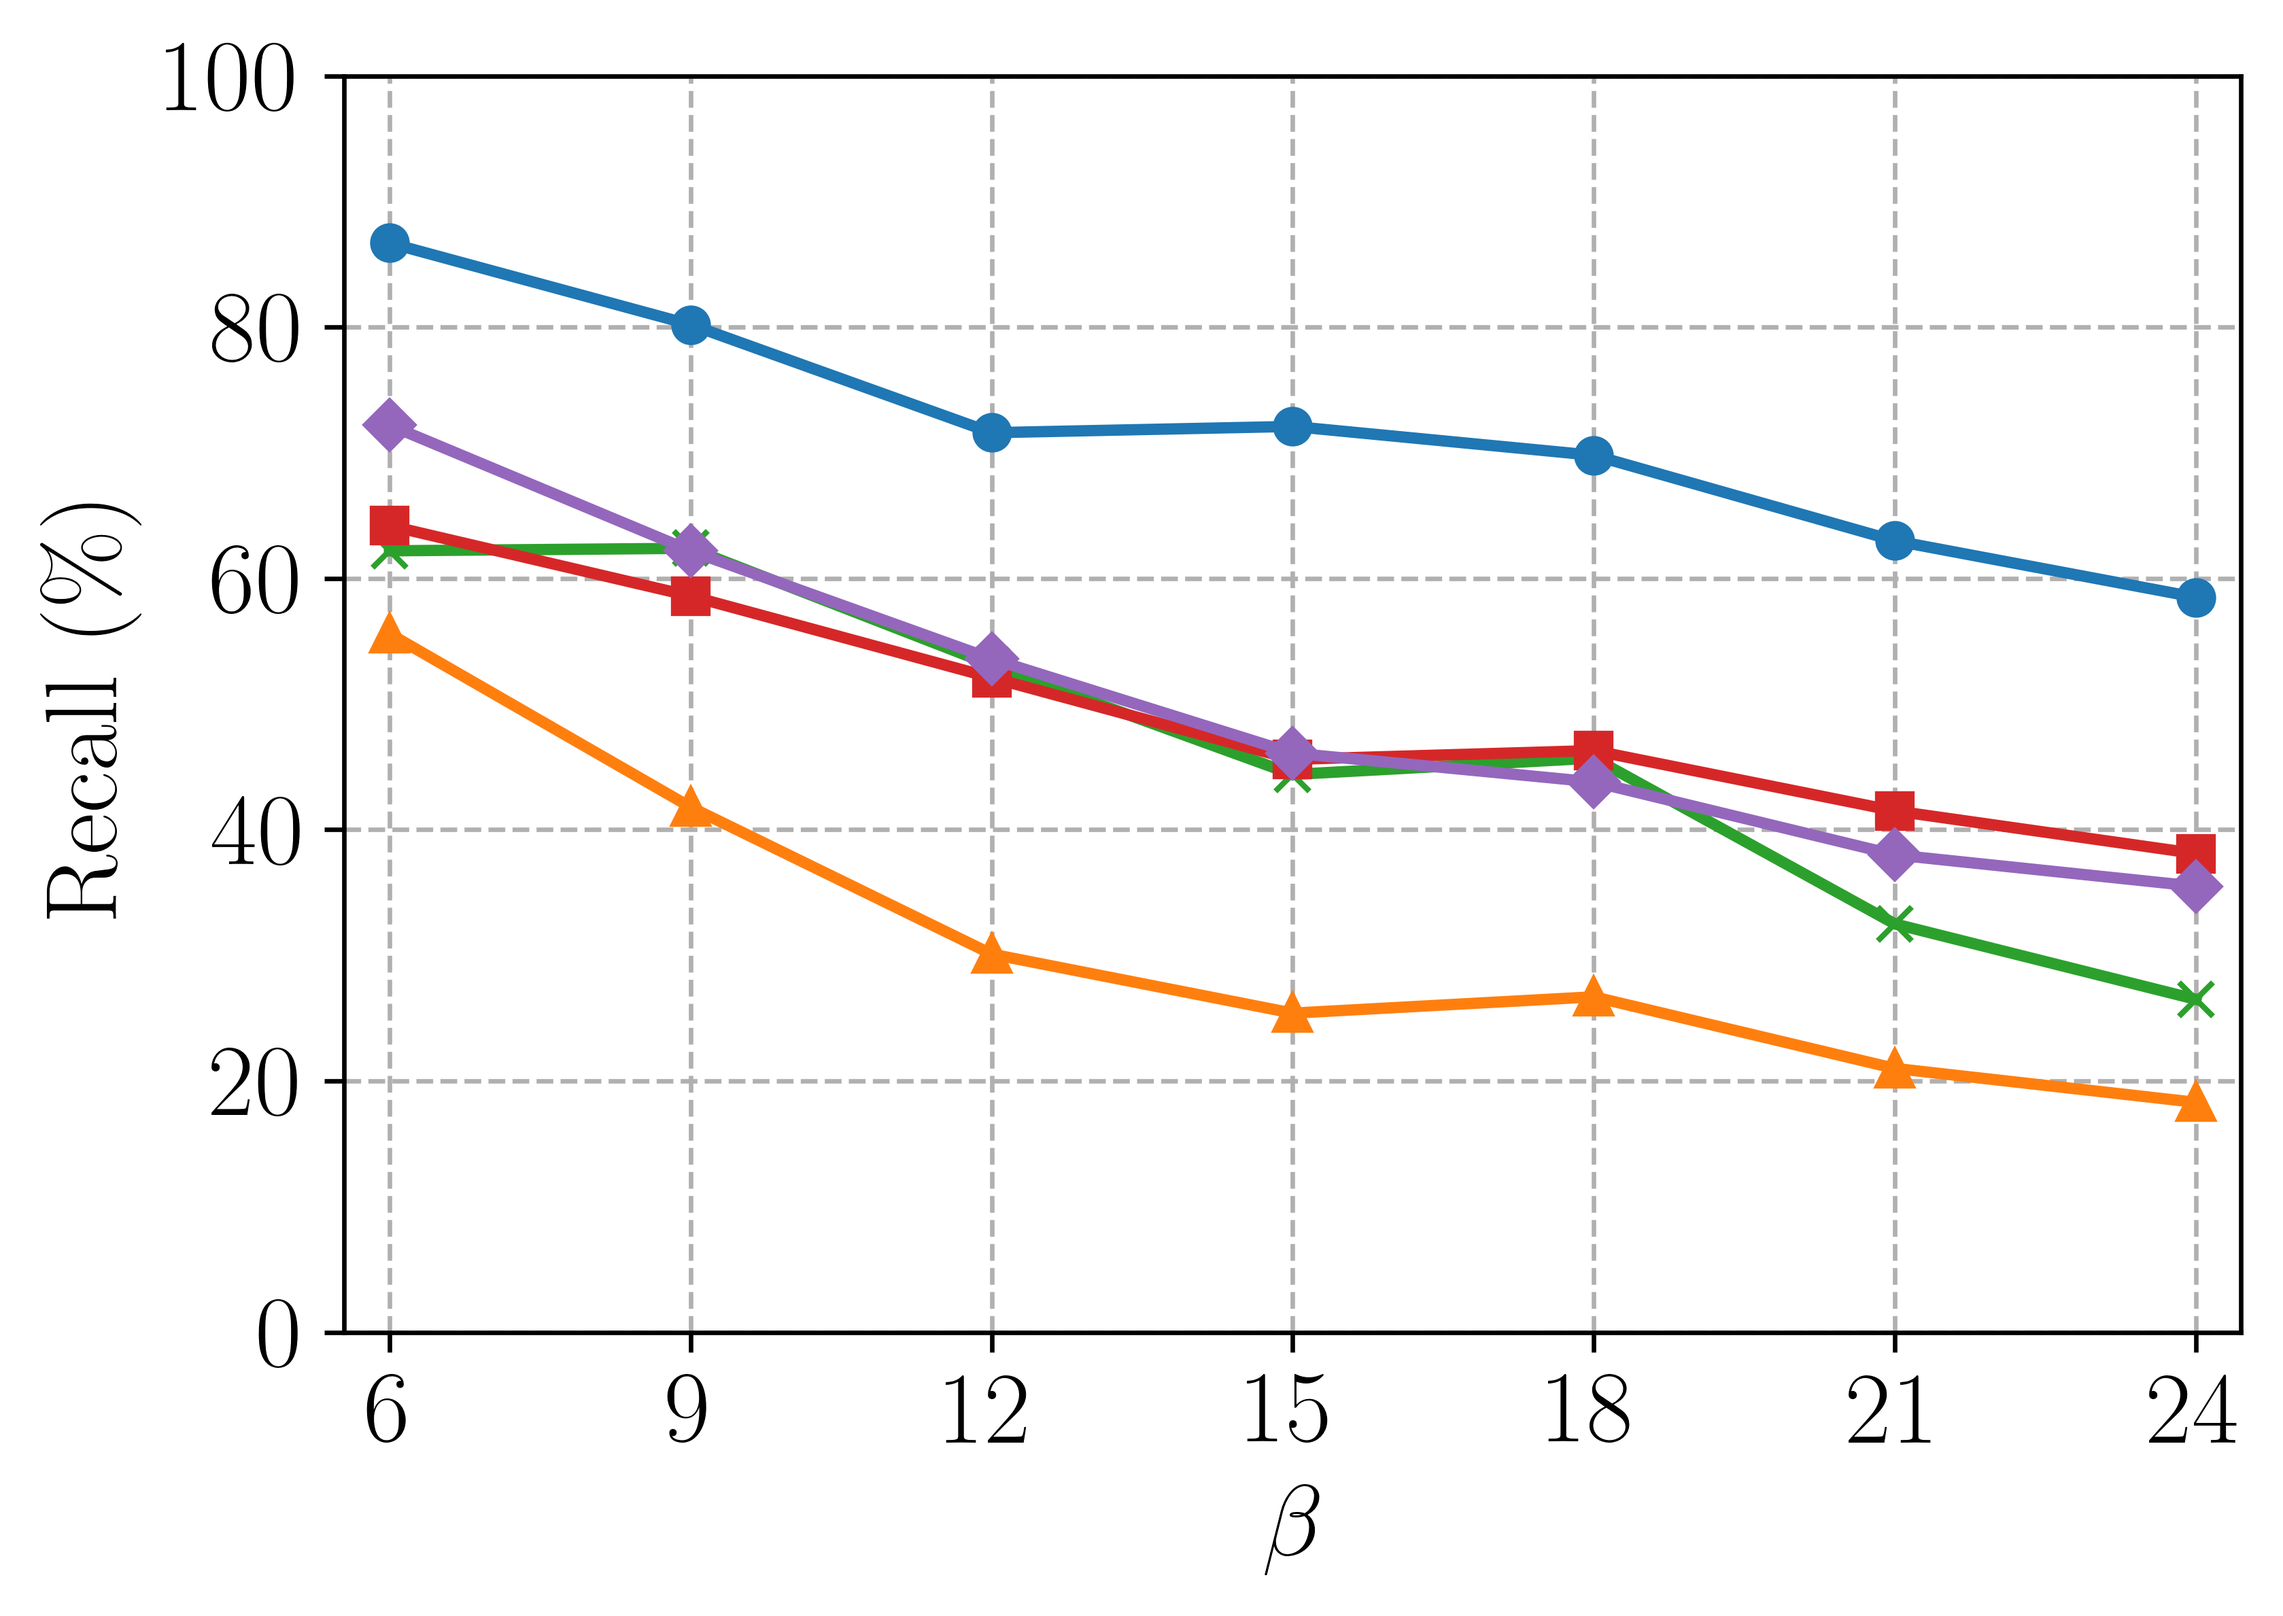
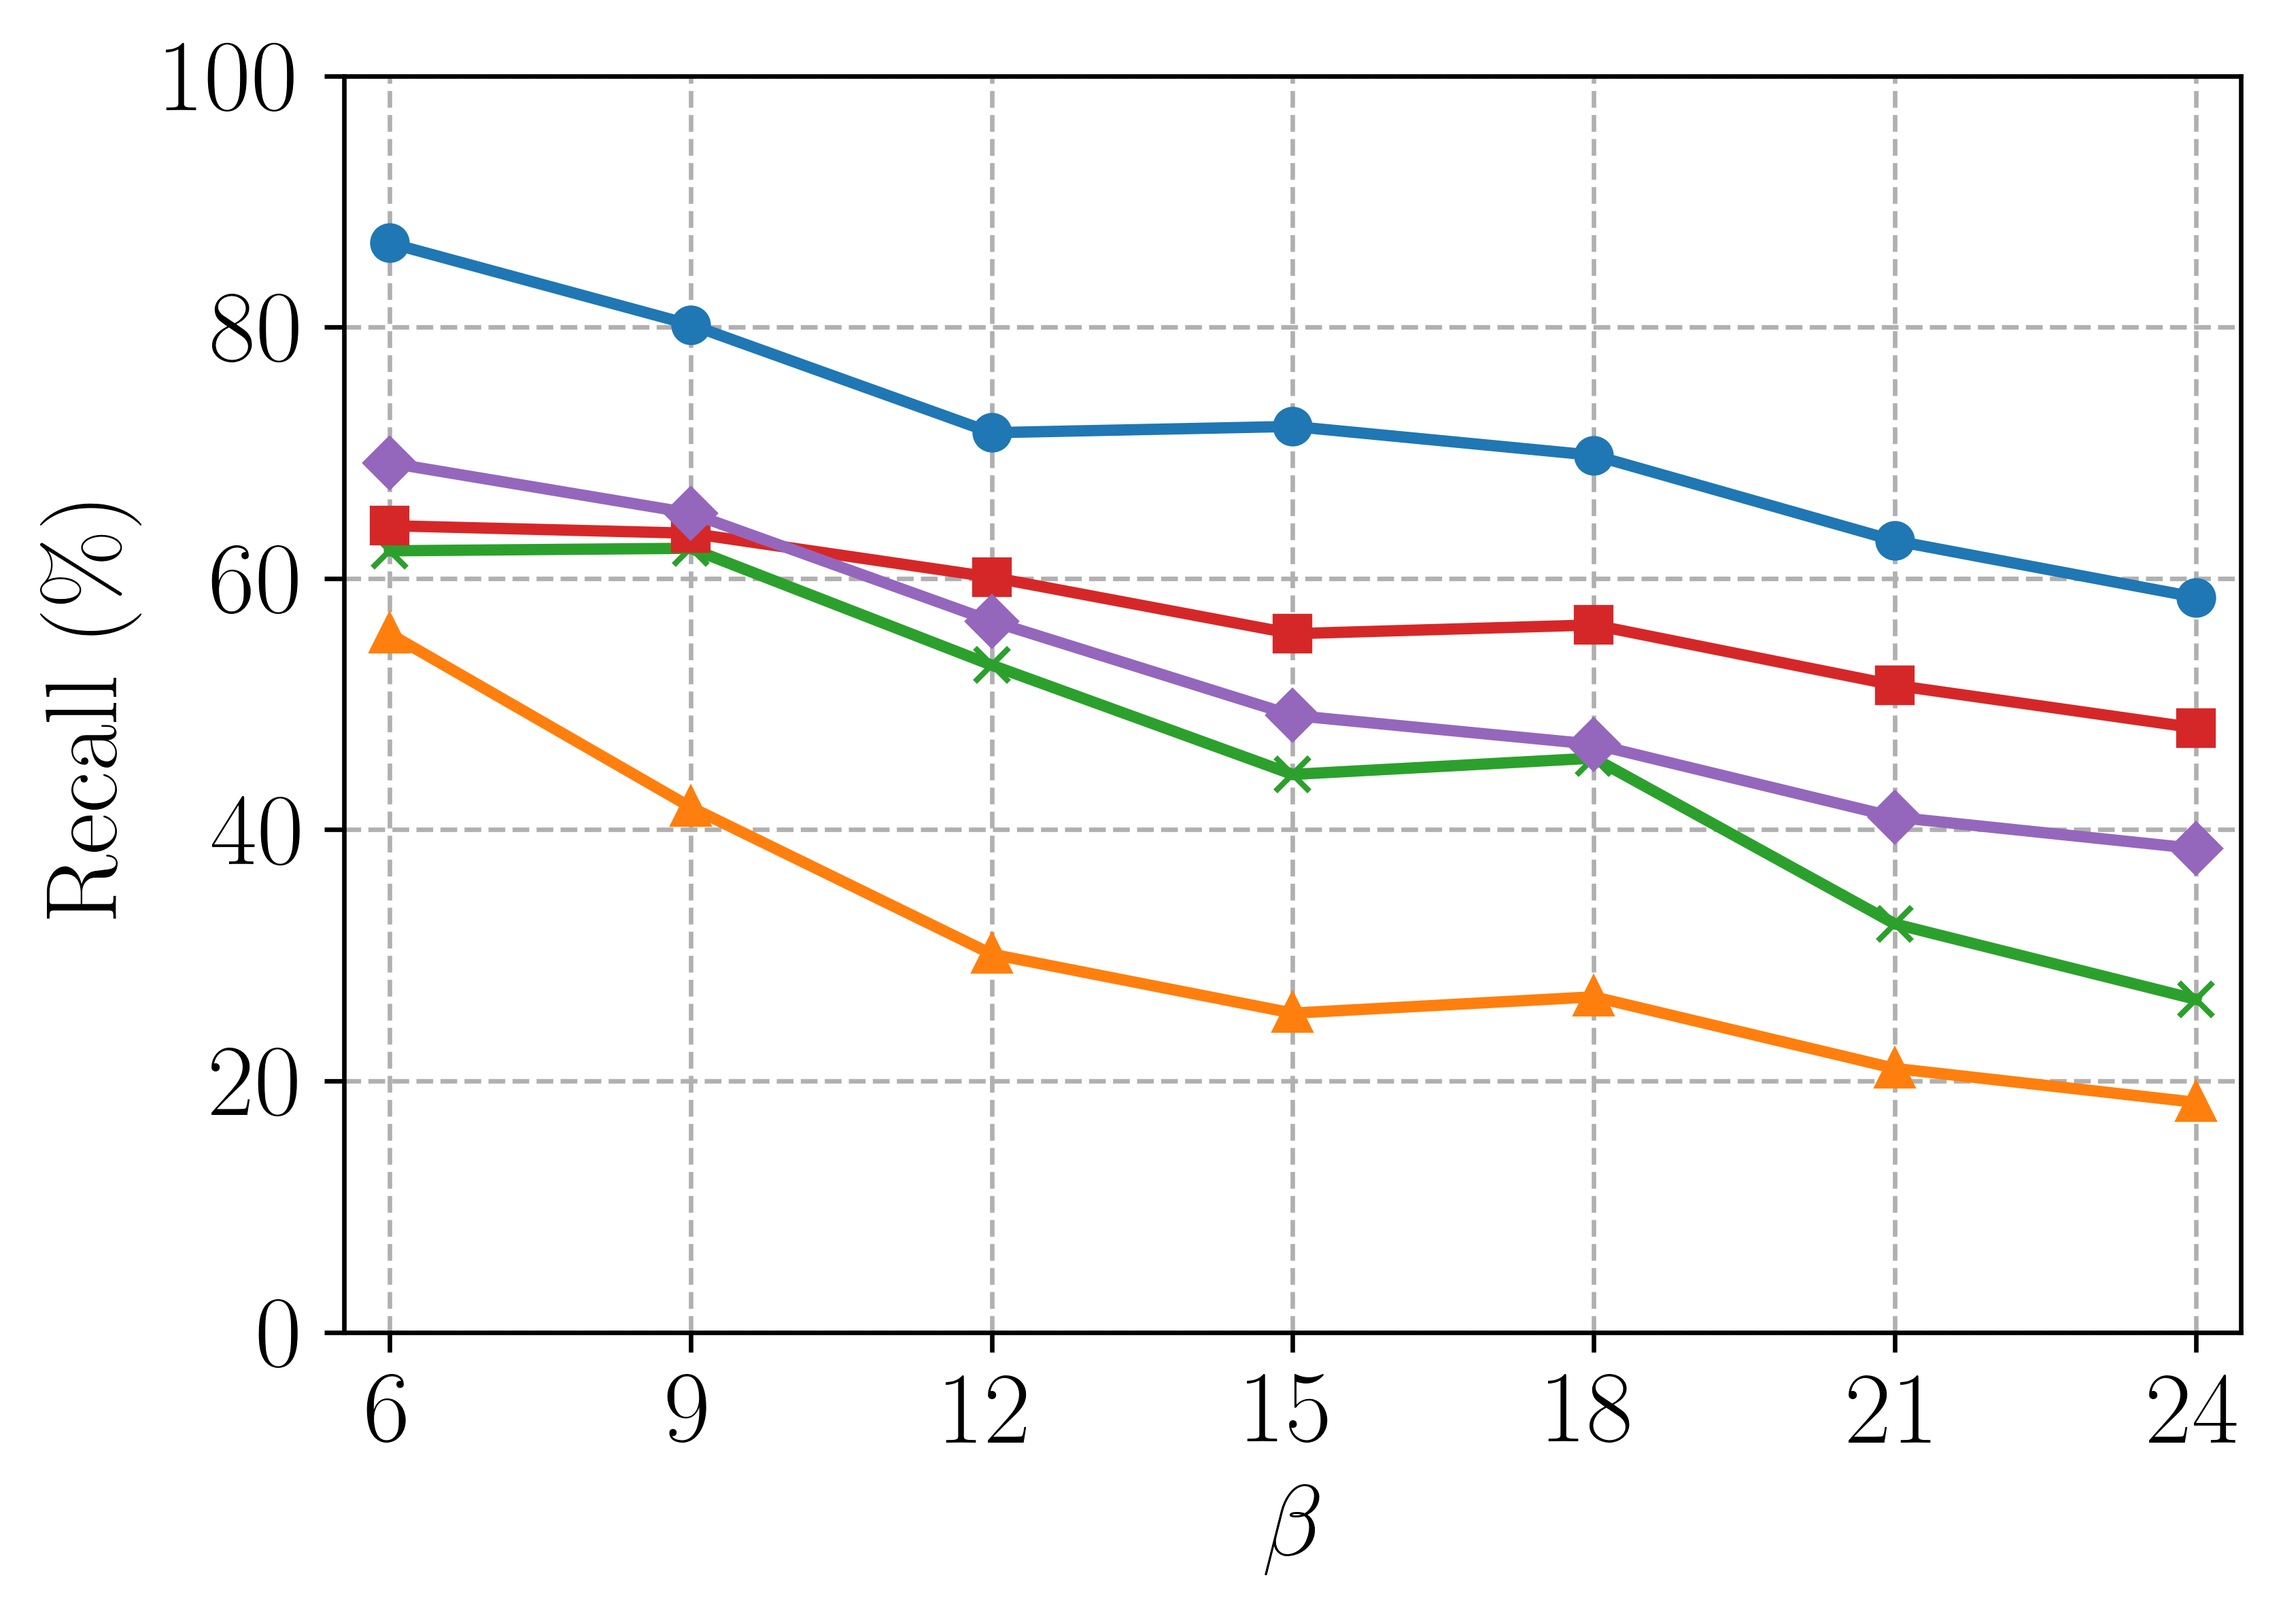
wip beta and d

Changed region(s): [[0.1549, 0.2491, 0.9911, 0.5604], [0.7743, 0.4047, 0.8982, 0.4358], [0.8982, 0.4358, 0.9911, 0.467]]

diff --git a/draw.py b/draw.py
@@ -143,22 +143,26 @@ def main():
         [86.7, 80.2, 71.6, 72.1, 69.8, 63.0, 58.5],
         [55.6, 41.8, 30.1, 25.4, 26.7, 21.0, 18.3],
         [62.2, 62.4, 53.1, 44.4, 45.7, 32.5, 26.5],
-        [64.2, 58.6, 52.1, 45.6, 46.3, 41.5, 38.1], # should be higher
-        [72.2, 62.2, 53.6, 46.1, 43.8, 38.0, 35.5] # should be higher
+        [64.2, 63.6, 60.1, 55.6, 56.3, 51.5, 48.1],
+        [69.2, 65.2, 56.6, 49.1, 46.8, 41.0, 38.5]
     ])
     beta_plots = generate_plots_data(x_beta, y_pre_beta, y_recall_beta, 'beta', 24, 100, x_beta, 6, 0, [0, 20, 40, 60, 80, 100])
 
     # d plots
     x_d = np.arange(0.06, 0.25, 0.03)
     y_pre_d = np.array([
-        [81.7, 67.2, 52.6, 42.1, 21.6, 11.1, 5.6],
+        [91.7, 71.2, 50.6, 25.1, 12.6, 6.1, 3.6],
         [63.6, 20.6, 10.3, 5.1, 3.0, 1.5, 1.0],
-        [92.2, 51.2, 25.6, 13.0, 6.5, 3.3, 1.7]
+        [92.2, 51.2, 25.6, 13.0, 6.5, 3.3, 1.7],
+        [90.2, 65.2, 35.6, 21.1, 10.6, 5.1, 2.6],
+        [95.2, 75.2, 45.6, 11.1, 8.6, 4.1, 1.6]
     ])
     y_recall_d = np.array([
-        [76.7, 50.2, 21.6, 6.1, 2.8, 1.0, 0.5],
+        [76.7, 50.2, 35.6, 25.1, 12.6, 6.1, 3.6],
         [55.6, 11.8, 5.1, 2.4, 1.7, 1.0, 0.8],
-        [62.2, 22.4, 13.1, 4.4, 2.7, 1.5, 1.3]
+        [62.2, 22.4, 13.1, 4.4, 2.7, 1.5, 1.3],
+        [64.2, 32.6, 15.1, 6.6, 3.3, 1.8, 1.3],
+        [69.2, 45.2, 21.6, 6.1, 4.8, 2.1, 1.6]
     ])
     d_plots = generate_plots_data(x_d, y_pre_d, y_recall_d, 'd', 0.24, 100, x_d, 0.06, 0, [0, 20, 40, 60, 80, 100])
 
@@ -183,7 +187,8 @@ def main():
     # Use multiprocessing to generate plots in parallel
     with Pool(processes=min(9, cpu_count())) as pool:
         # pool.map(plot_line_chart, all_plots)
-        pool.map(plot_line_chart, beta_plots)
+        # pool.map(plot_line_chart, beta_plots)
+        pool.map(plot_line_chart, d_plots)
 
 if __name__ == "__main__":
     main()
